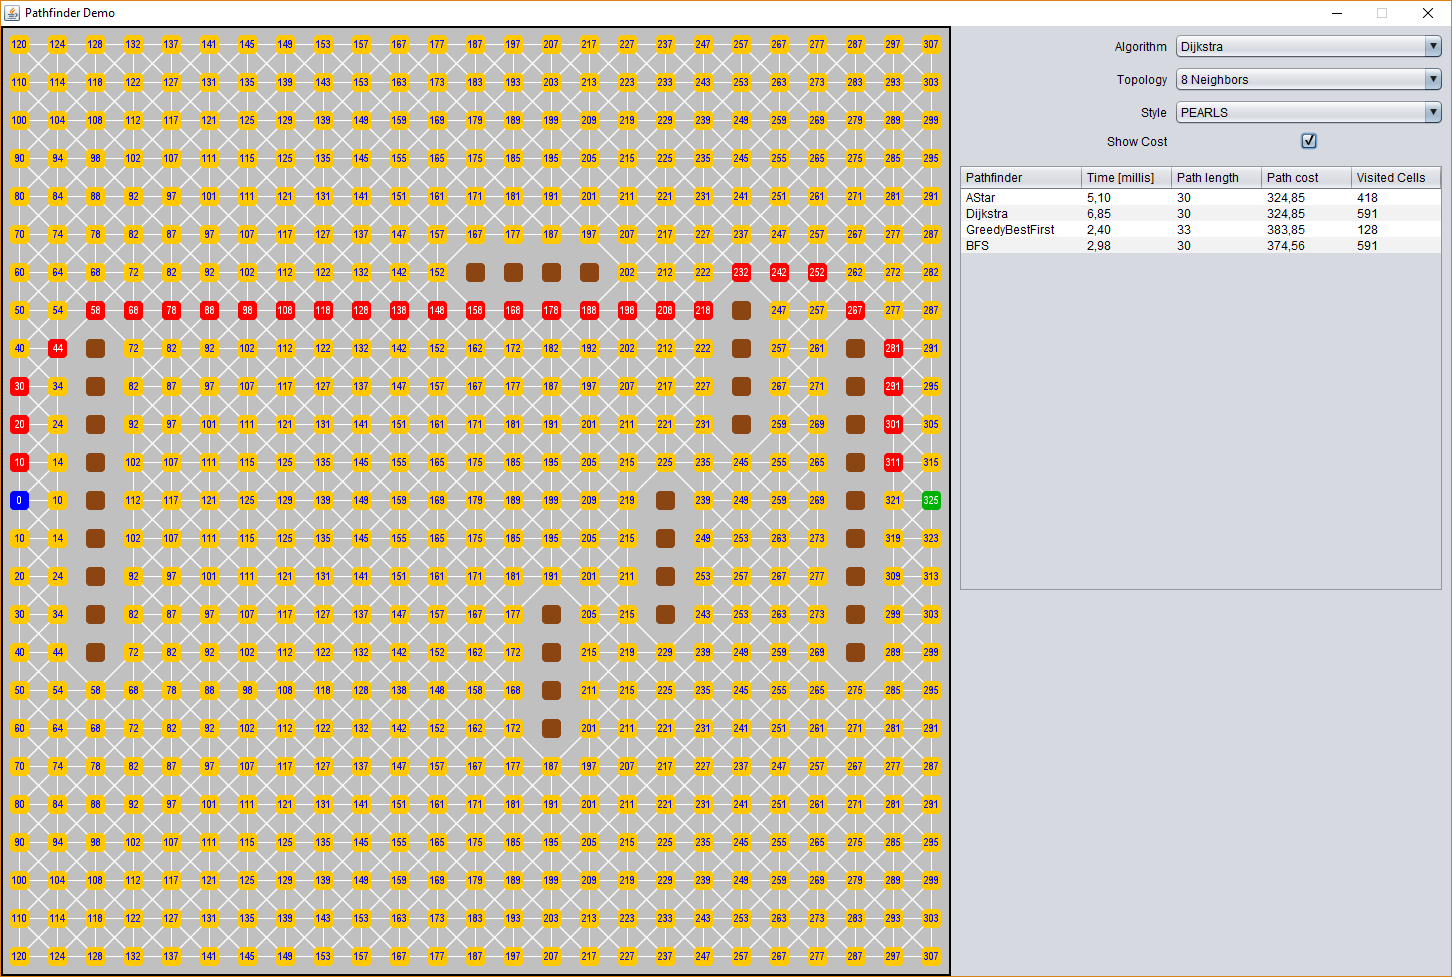
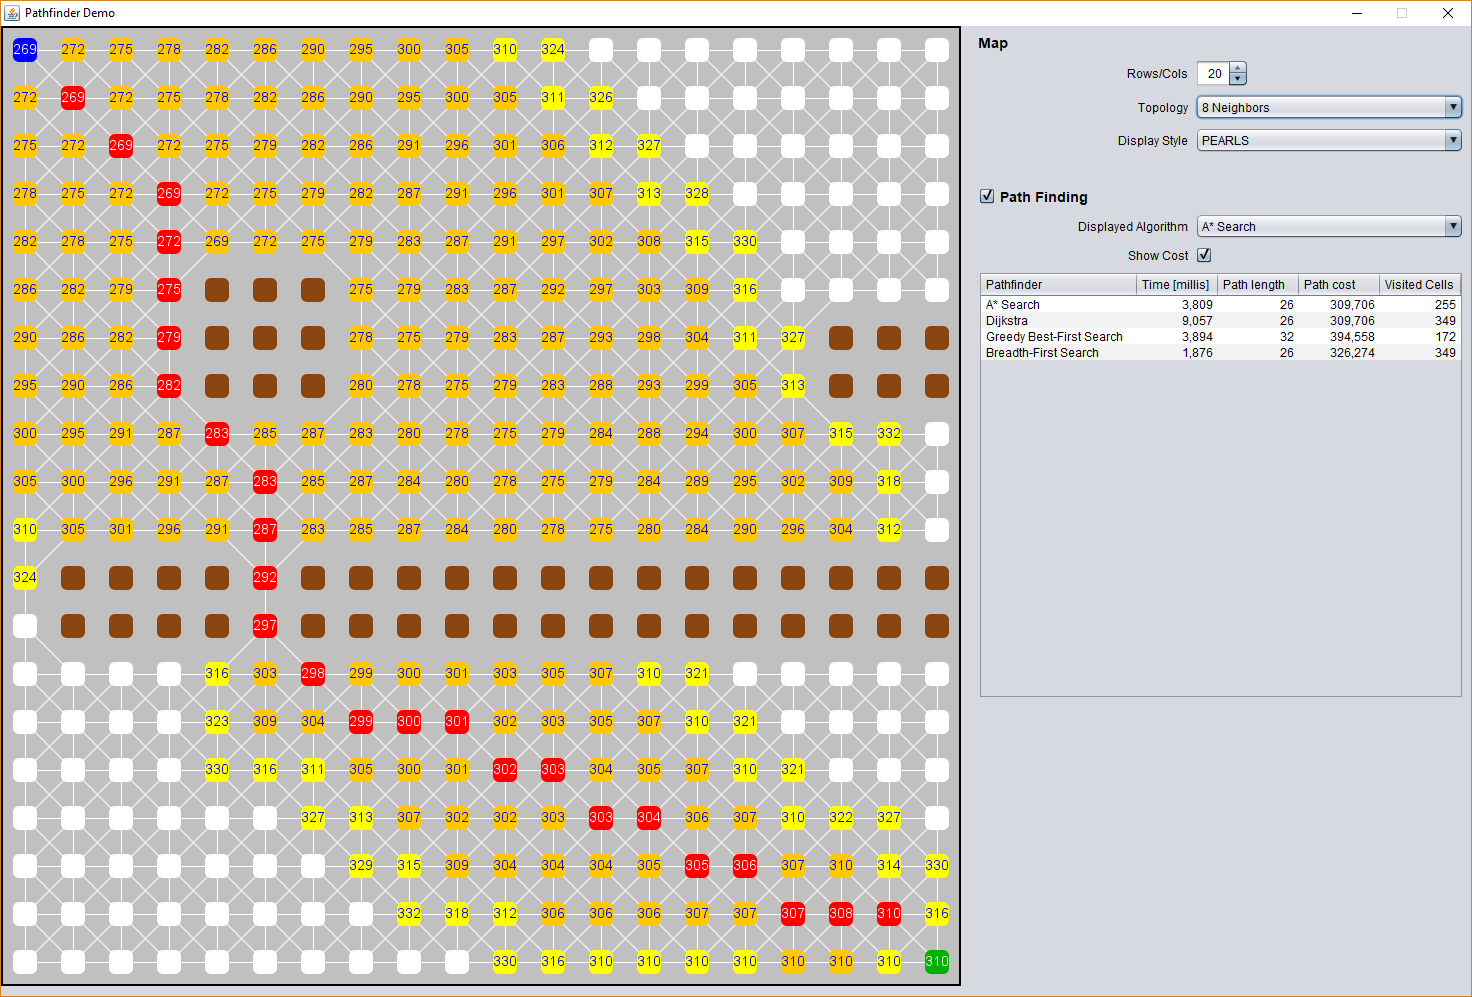
Made path finding display configurable

diff --git a/GraphDemos/src/main/java/de/amr/demos/graph/pathfinding/ui/PathFinderDemoUI.java b/GraphDemos/src/main/java/de/amr/demos/graph/pathfinding/ui/PathFinderDemoUI.java
@@ -1,9 +1,13 @@
 package de.amr.demos.graph.pathfinding.ui;
 
+import static de.amr.graph.pathfinder.api.TraversalState.COMPLETED;
+import static de.amr.graph.pathfinder.api.TraversalState.UNVISITED;
+import static de.amr.graph.pathfinder.api.TraversalState.VISITED;
 import static java.lang.Math.min;
 
 import java.awt.BorderLayout;
 import java.awt.Color;
+import java.awt.Component;
 import java.awt.Dimension;
 import java.awt.Font;
 import java.awt.Toolkit;
@@ -18,6 +22,7 @@ import java.awt.event.MouseMotionListener;
 import javax.swing.AbstractAction;
 import javax.swing.Action;
 import javax.swing.BorderFactory;
+import javax.swing.Box;
 import javax.swing.DefaultComboBoxModel;
 import javax.swing.JCheckBox;
 import javax.swing.JComboBox;
@@ -43,7 +48,6 @@ import de.amr.graph.grid.ui.rendering.ConfigurableGridRenderer;
 import de.amr.graph.grid.ui.rendering.GridCanvas;
 import de.amr.graph.grid.ui.rendering.PearlsGridRenderer;
 import de.amr.graph.grid.ui.rendering.WallPassageGridRenderer;
-import de.amr.graph.pathfinder.api.TraversalState;
 import de.amr.graph.pathfinder.impl.AStarSearch;
 import net.miginfocom.swing.MigLayout;
 
@@ -97,6 +101,23 @@ public class PathFinderDemoUI extends JFrame {
 		@Override
 		public void actionPerformed(ActionEvent e) {
 			controller.resetScene();
+		}
+	};
+
+	private Action actionTogglePathFinding = new AbstractAction("Path Finding") {
+
+		@Override
+		public void actionPerformed(ActionEvent e) {
+			actionChangeAlgorithm.setEnabled(isPathFindingEnabled());
+			cbShowCost.setEnabled(isPathFindingEnabled());
+			tableResults.setVisible(isPathFindingEnabled());
+			if (isPathFindingEnabled()) {
+				model.runPathFinders();
+				updateUI();
+			} else {
+				canvas.clear();
+				canvas.drawGrid();
+			}
 		}
 	};
 
@@ -156,6 +177,7 @@ public class PathFinderDemoUI extends JFrame {
 	private JPopupMenu popupMenu;
 	private JSpinner spinnerMapSize;
 	private JCheckBox cbShowCost;
+	private JCheckBox cbPathFinding;
 
 	public PathFinderDemoUI() {
 		setResizable(false);
@@ -166,10 +188,18 @@ public class PathFinderDemoUI extends JFrame {
 		settingsPanel.setPreferredSize(new Dimension(500, 10));
 		settingsPanel.setMinimumSize(new Dimension(500, 10));
 		getContentPane().add(settingsPanel, BorderLayout.EAST);
-		settingsPanel.setLayout(new MigLayout("", "[grow][grow]", "[][][][][][grow]"));
+		settingsPanel.setLayout(new MigLayout("", "[grow][grow]", "[][][][][][][][][grow]"));
 
-		JLabel lblGridSize = new JLabel("Map Size");
-		settingsPanel.add(lblGridSize, "cell 0 4,alignx trailing");
+		Component verticalStrut = Box.createVerticalStrut(20);
+		settingsPanel.add(verticalStrut, "cell 0 4");
+
+		cbPathFinding = new JCheckBox("Path Finding");
+		cbPathFinding.setAction(actionTogglePathFinding);
+		cbPathFinding.setFont(new Font("SansSerif", Font.BOLD, 14));
+		settingsPanel.add(cbPathFinding, "cell 0 5");
+
+		JLabel lblGridSize = new JLabel("Rows/Cols");
+		settingsPanel.add(lblGridSize, "cell 0 1,alignx trailing");
 
 		spinnerMapSize = new JSpinner();
 		spinnerMapSize.addChangeListener(new ChangeListener() {
@@ -179,27 +209,31 @@ public class PathFinderDemoUI extends JFrame {
 				controller.setMapSize((int) spinnerMapSize.getValue());
 			}
 		});
-		spinnerMapSize.setModel(new SpinnerNumberModel(20, 2, 80, 2));
-		settingsPanel.add(spinnerMapSize, "cell 1 4");
+		spinnerMapSize.setModel(new SpinnerNumberModel(20, 2, 80, 1));
+		settingsPanel.add(spinnerMapSize, "cell 1 1");
 
-		JLabel lblAlgorithm = new JLabel("Path Finder");
-		settingsPanel.add(lblAlgorithm, "cell 0 0,alignx trailing");
+		JLabel lblAlgorithm = new JLabel("Displayed Algorithm");
+		settingsPanel.add(lblAlgorithm, "cell 0 6,alignx trailing");
 
 		comboAlgorithm = new JComboBox<>();
 		comboAlgorithm.setAction(actionChangeAlgorithm);
 		comboAlgorithm.setModel(new DefaultComboBoxModel<>(PathFinderAlgorithm.values()));
-		settingsPanel.add(comboAlgorithm, "cell 1 0,growx");
+		settingsPanel.add(comboAlgorithm, "cell 1 6,growx");
+
+		JLabel lblMap = new JLabel("Map");
+		lblMap.setFont(new Font("SansSerif", Font.BOLD, 14));
+		settingsPanel.add(lblMap, "cell 0 0");
 
 		JLabel lblTopology = new JLabel("Topology");
-		settingsPanel.add(lblTopology, "flowy,cell 0 1,alignx trailing");
+		settingsPanel.add(lblTopology, "flowy,cell 0 2,alignx trailing");
 
 		comboTopology = new JComboBox<>();
 		comboTopology.setAction(actionChangeTopology);
 		comboTopology.setModel(new DefaultComboBoxModel<>(new String[] { "4 Neighbors", "8 Neighbors" }));
-		settingsPanel.add(comboTopology, "cell 1 1,growx");
+		settingsPanel.add(comboTopology, "cell 1 2,growx");
 
 		JLabel lblStyle = new JLabel("Display Style");
-		settingsPanel.add(lblStyle, "cell 0 2,alignx trailing");
+		settingsPanel.add(lblStyle, "cell 0 3,alignx trailing");
 
 		style = RenderingStyle.BLOCKS;
 		JComboBox<RenderingStyle> comboStyle = new JComboBox<>();
@@ -211,10 +245,10 @@ public class PathFinderDemoUI extends JFrame {
 			canvas.drawGrid();
 		});
 		comboStyle.setModel(new DefaultComboBoxModel<>(RenderingStyle.values()));
-		settingsPanel.add(comboStyle, "cell 1 2,growx");
+		settingsPanel.add(comboStyle, "cell 1 3,growx");
 
 		JLabel lblShowCost = new JLabel("Show Cost");
-		settingsPanel.add(lblShowCost, "cell 0 3,alignx trailing");
+		settingsPanel.add(lblShowCost, "cell 0 7,alignx trailing");
 
 		cbShowCost = new JCheckBox("");
 		cbShowCost.addActionListener(new ActionListener() {
@@ -224,12 +258,13 @@ public class PathFinderDemoUI extends JFrame {
 				canvas.drawGrid();
 			}
 		});
-		settingsPanel.add(cbShowCost, "cell 1 3,alignx left,aligny bottom");
+		settingsPanel.add(cbShowCost, "cell 1 7,alignx left,aligny bottom");
 
 		JScrollPane scrollPaneTableResults = new JScrollPane();
-		settingsPanel.add(scrollPaneTableResults, "cell 0 5 2 1,growx,aligny top");
+		settingsPanel.add(scrollPaneTableResults, "cell 0 8 2 1,growx,aligny top");
 
 		tableResults = new JTable();
+		tableResults.setEnabled(false);
 		tableResults.setShowVerticalLines(false);
 		scrollPaneTableResults.setViewportView(tableResults);
 
@@ -261,6 +296,10 @@ public class PathFinderDemoUI extends JFrame {
 		comboAlgorithm.setSelectedItem(model.getSelectedAlgorithm());
 		comboTopology.setSelectedItem(model.getMap().getTopology() == Top4.get() ? "4 Neighbors" : "8 Neighbors");
 		tableResults.getColumnModel().getColumn(0).setPreferredWidth(150);
+
+		actionChangeAlgorithm.setEnabled(isPathFindingEnabled());
+		cbShowCost.setEnabled(isPathFindingEnabled());
+		tableResults.setVisible(isPathFindingEnabled());
 	}
 
 	public void setController(PathFinderDemoApp controller) {
@@ -284,29 +323,35 @@ public class PathFinderDemoUI extends JFrame {
 		canvas.drawGrid();
 	}
 
+	private boolean isPathFindingEnabled() {
+		return cbPathFinding.isSelected();
+	}
+
 	private ConfigurableGridRenderer createRenderer() {
 		ConfigurableGridRenderer r = style == RenderingStyle.BLOCKS ? new WallPassageGridRenderer()
 				: new PearlsGridRenderer();
 		r.fnGridBgColor = () -> Color.LIGHT_GRAY;
 		r.fnCellSize = () -> cellSize;
 		r.fnCellBgColor = cell -> {
+			if (model.getMap().get(cell) == Tile.WALL) {
+				return new Color(139, 69, 19);
+			}
 			if (cell == model.getSource()) {
 				return Color.BLUE;
 			}
 			if (cell == model.getTarget()) {
 				return Color.GREEN.darker();
 			}
-			if (model.getSelectedResult().solutionCells.get(cell)) {
-				return Color.RED.brighter();
-			}
-			if (model.getSelectedPathFinder().getState(cell) == TraversalState.COMPLETED) {
-				return Color.ORANGE;
-			}
-			if (model.getSelectedPathFinder().getState(cell) == TraversalState.VISITED) {
-				return Color.YELLOW;
-			}
-			if (model.getMap().get(cell) == Tile.WALL) {
-				return new Color(139, 69, 19);
+			if (isPathFindingEnabled()) {
+				if (model.getSelectedResult().solutionCells.get(cell)) {
+					return Color.RED.brighter();
+				}
+				if (model.getSelectedPathFinder().getState(cell) == COMPLETED) {
+					return Color.ORANGE;
+				}
+				if (model.getSelectedPathFinder().getState(cell) == VISITED) {
+					return Color.YELLOW;
+				}
 			}
 			return Color.WHITE;
 		};
@@ -334,10 +379,10 @@ public class PathFinderDemoUI extends JFrame {
 	}
 
 	private String cellText(int cell) {
-		if (!cbShowCost.isSelected() && cell != model.getTarget()) {
+		if (!isPathFindingEnabled() || !cbShowCost.isSelected() && cell != model.getTarget()) {
 			return "";
 		}
-		if (model.getSelectedPathFinder().getState(cell) == TraversalState.UNVISITED) {
+		if (model.getSelectedPathFinder().getState(cell) == UNVISITED) {
 			return "";
 		}
 		if (model.getSelectedPathFinder() instanceof AStarSearch) {

diff --git a/GraphDemos/src/main/java/de/amr/demos/graph/pathfinding/model/PathFinderDemoModel.java b/GraphDemos/src/main/java/de/amr/demos/graph/pathfinding/model/PathFinderDemoModel.java
@@ -34,7 +34,6 @@ public class PathFinderDemoModel {
 		results = new EnumMap<>(PathFinderAlgorithm.class);
 		mapSize = 20;
 		topology = Top8.get();
-		newMap();
 	}
 
 	public void newMap() {
@@ -143,10 +142,7 @@ public class PathFinderDemoModel {
 	}
 
 	public void setMapSize(int size) {
-		if (size != map.numCols()) {
-			mapSize = size;
-			newMap();
-		}
+		mapSize = size;
 	}
 	
 	public int getMapSize() {

diff --git a/GraphDemos/src/main/java/de/amr/demos/graph/pathfinding/PathFinderDemoApp.java b/GraphDemos/src/main/java/de/amr/demos/graph/pathfinding/PathFinderDemoApp.java
@@ -35,8 +35,8 @@ public class PathFinderDemoApp {
 	public PathFinderDemoApp() {
 
 		model = new PathFinderDemoModel();
-		model.setMapSize(25);
 		model.setTopology(Top8.get());
+		model.setMapSize(10);
 		model.newMap();
 		model.setSource(model.getMap().cell(GridPosition.TOP_LEFT));
 		model.setTarget(model.getMap().cell(GridPosition.BOTTOM_RIGHT));
